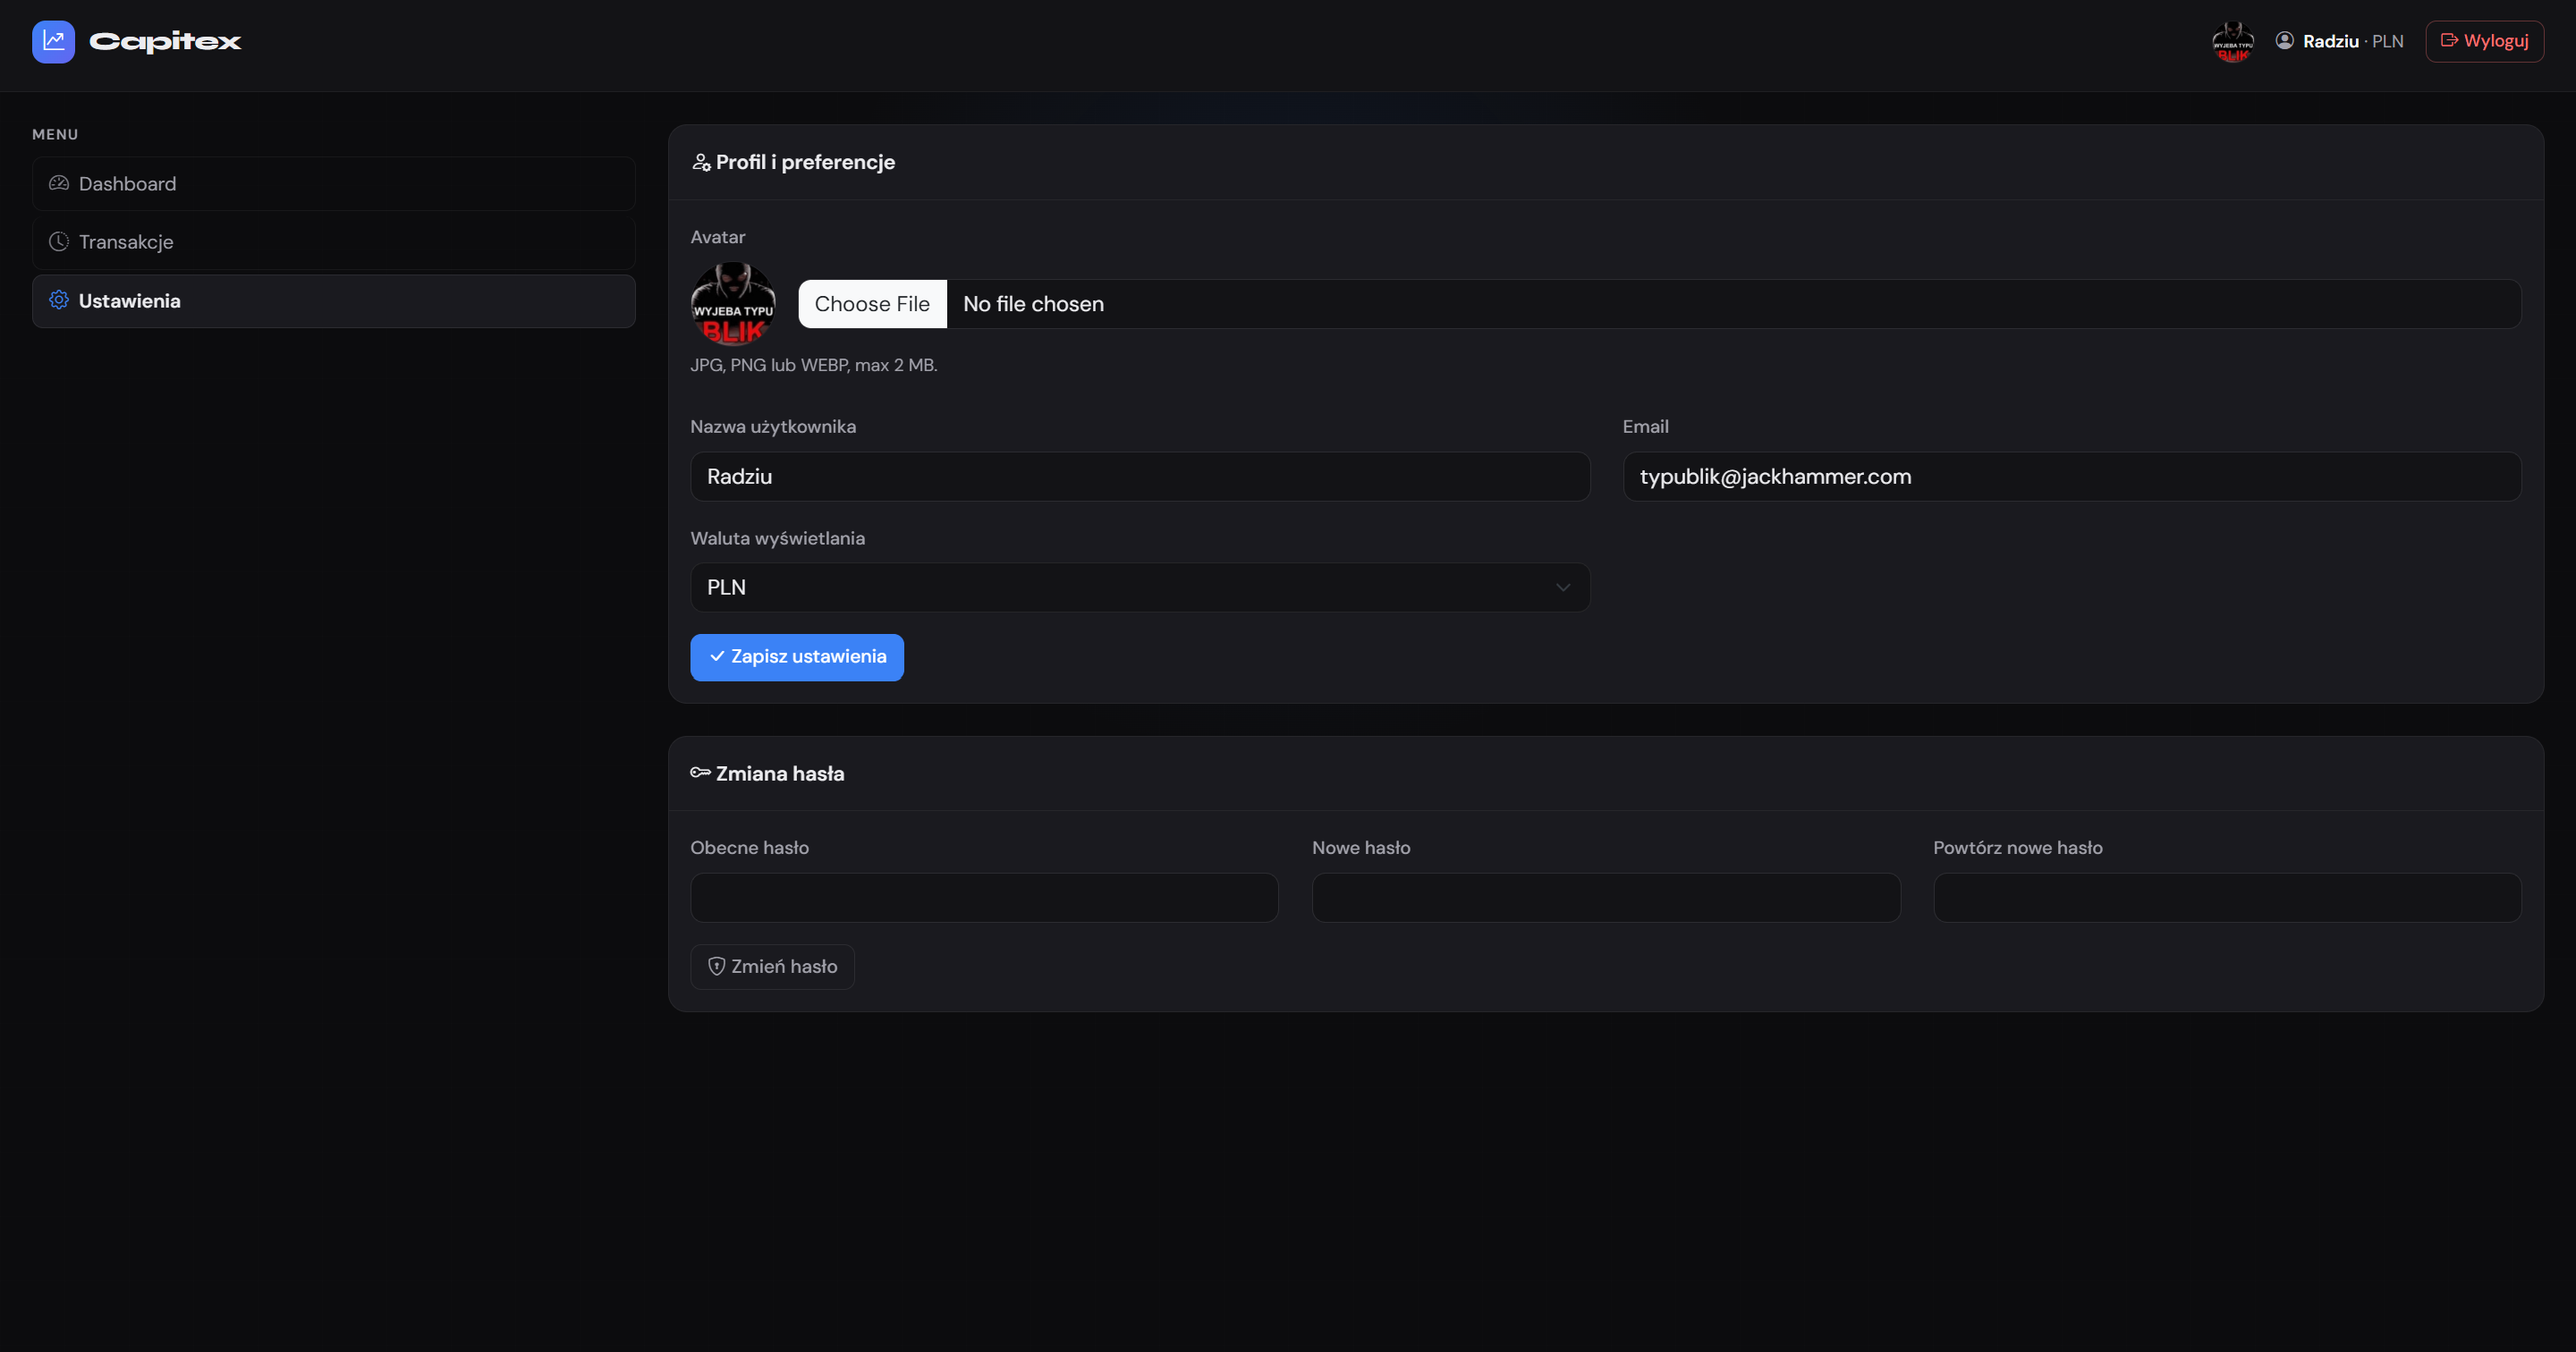
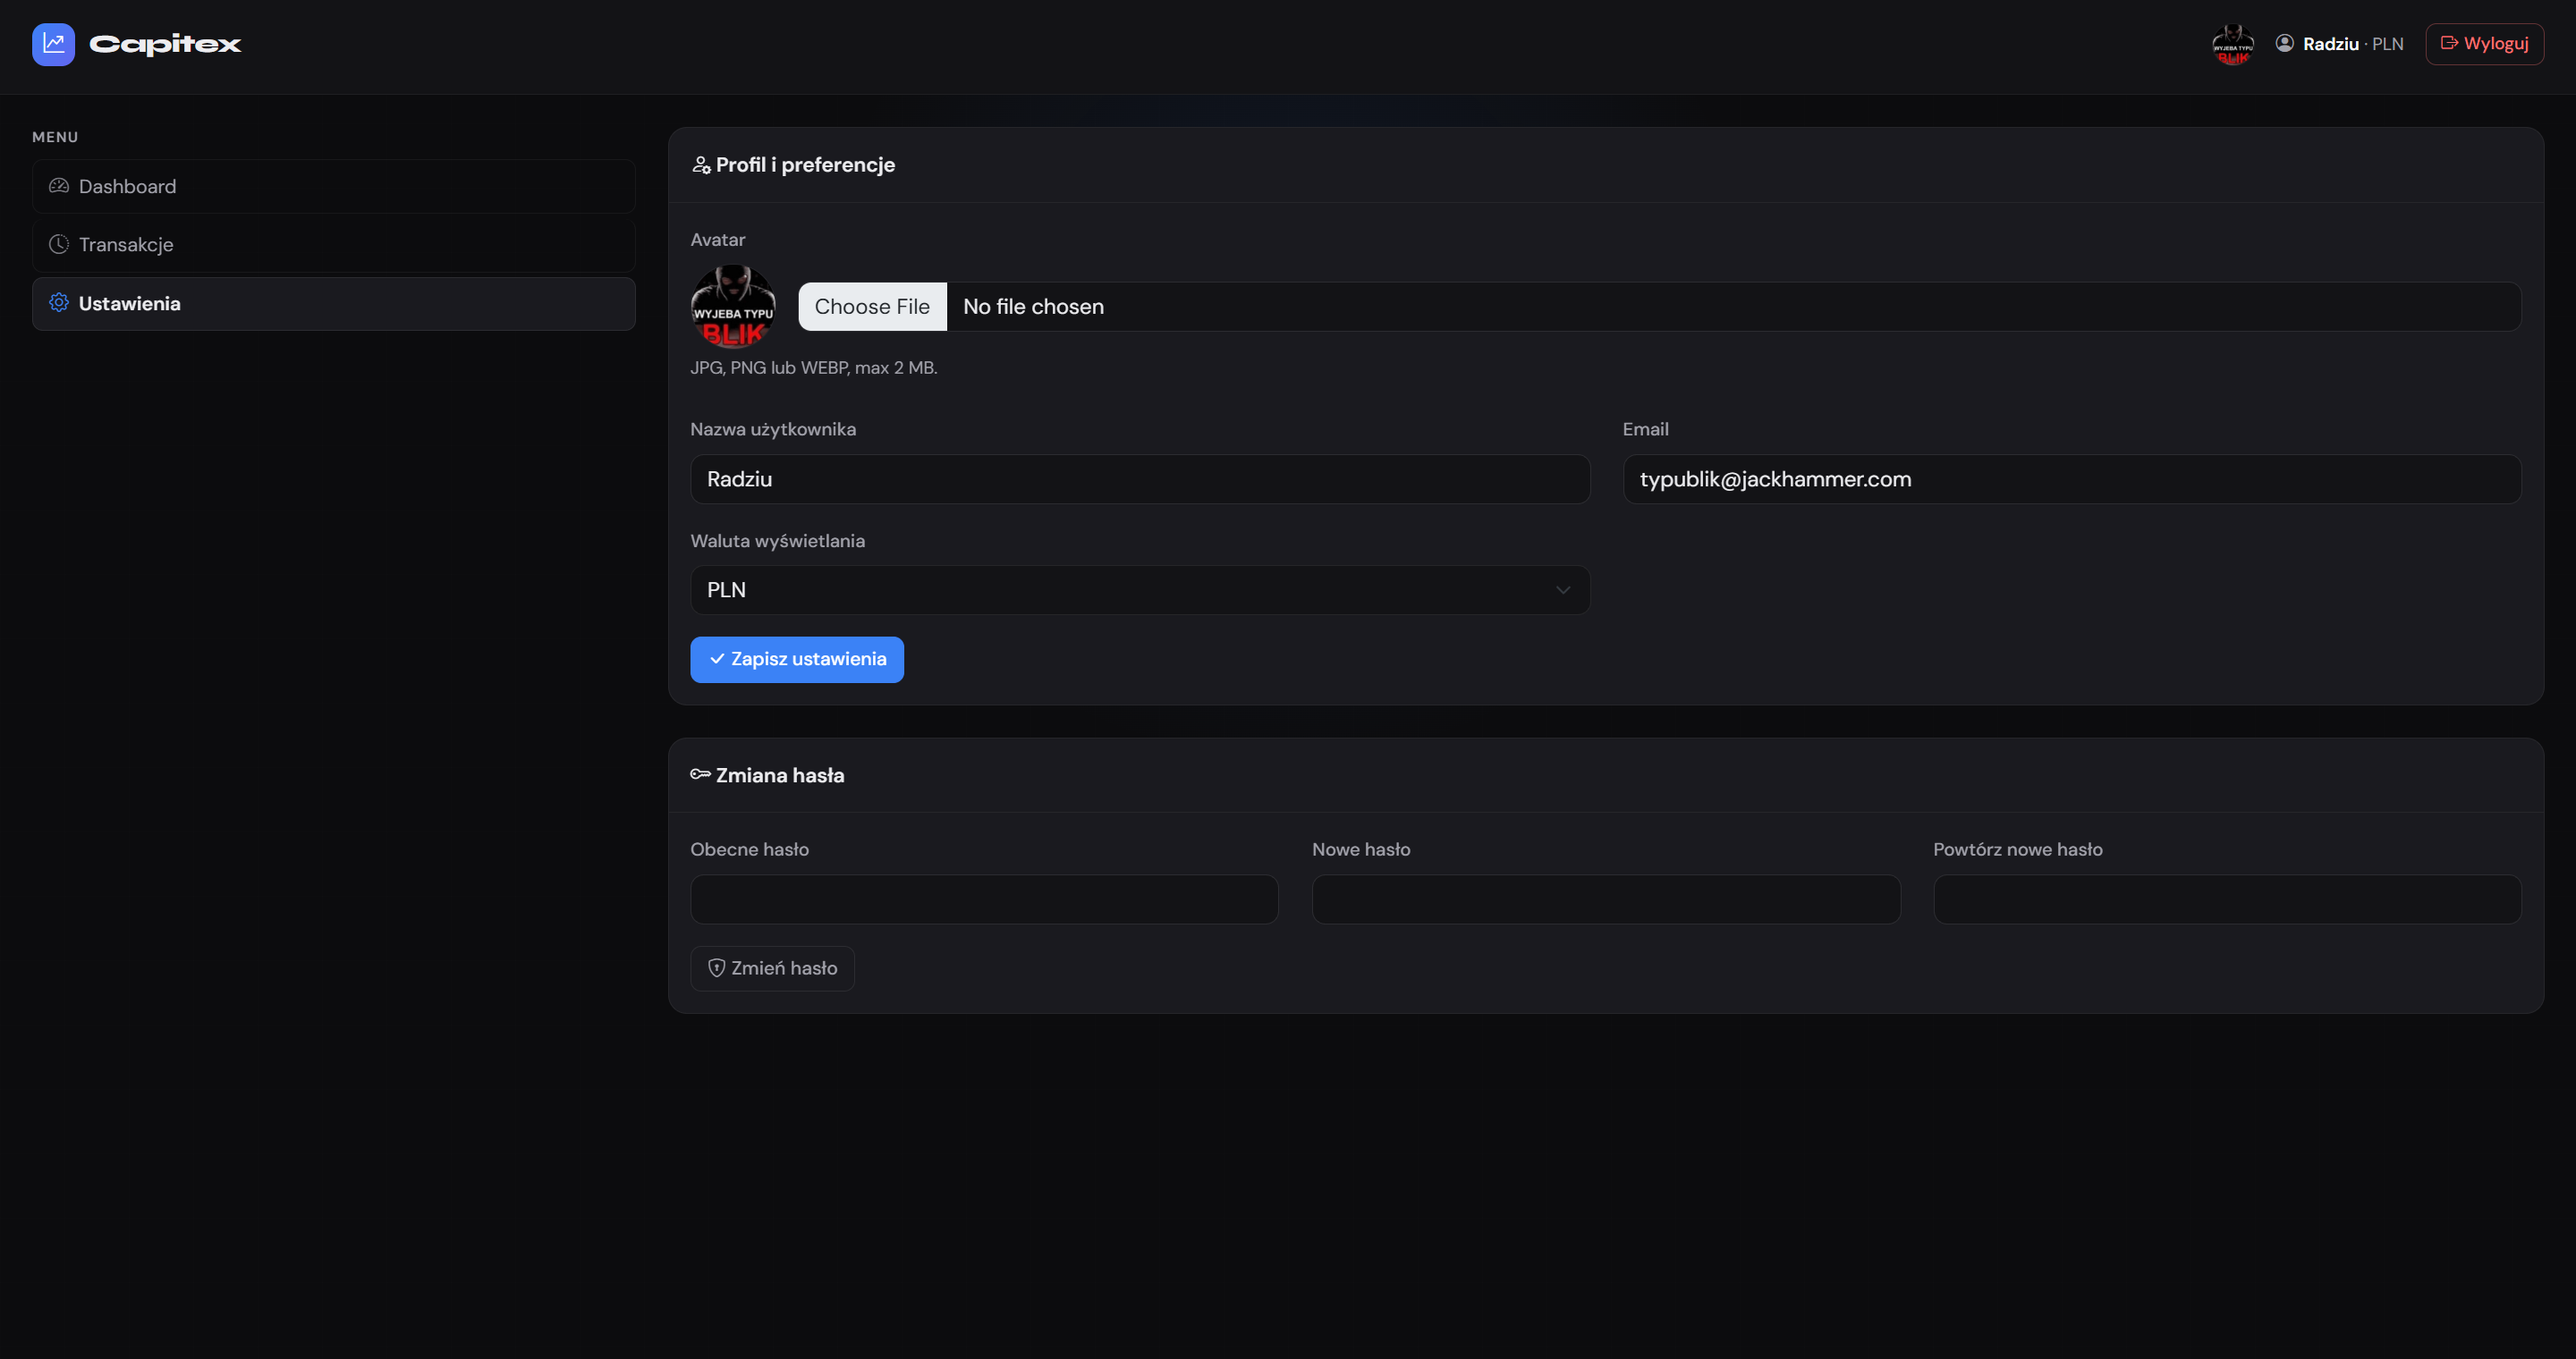
fix docs

diff --git a/README.md b/README.md
@@ -47,7 +47,7 @@ Kod aplikacji znajduje się w katalogu `capitex/` (w repozytorium `aplikacje-int
 #### Dodatkowe narzędzia 
 - Przeglądarka (Chrome, Firefox, Edge)
 - Połączenie z internetem (pobieranie cen z API)
-- Edytor kodu (np. VS Code / Cursor) – opcjonalnie w dokumentacji
+- Edytor kodu 
 
 
 
@@ -358,7 +358,7 @@ Po zalogowaniu tym kontem użytkownik ma rolę **admin** (`role_id = 1`) i widzi
 
 #### Dashboard administratora (portfel)
 
-Po logowaniu administrator trafia na dashboard inwestycyjny – tak jak użytkownik. Może tworzyć własne portfele i transakcje; obsługa opisana będzie w sekcji **Panel użytkownika**.
+Po logowaniu administrator trafia na dashboard inwestycyjny – tak jak użytkownik. Może tworzyć własne portfele i transakcje; obsługa opisana w sekcji **Panel użytkownika** poniżej.
 
 ![Dashboard administratora z własnym portfelem](./assets/admin/admin-dashboard.png)
 
@@ -471,7 +471,224 @@ Administrator **nie może**:
 
 ### Panel użytkownika
 
-> *Sekcja w przygotowaniu – opis dashboardu, portfeli, transakcji, ustawień i filtrów.*
+Zwykły użytkownik (`role_id = 2`) po rejestracji lub logowaniu zarządza własnymi portfelami, transakcjami i ustawieniami profilu. Nie widzi **Panelu admina** w menu.
+
+#### Dashboard główny
+
+Po zalogowaniu użytkownik trafia na dashboard inwestycyjny. Ekran składa się z:
+
+- **górnego paska** – nazwa użytkownika, avatar, przycisk **Wyloguj**,
+- **menu bocznego** – Dashboard, Transakcje, Ustawienia oraz lista **Moje Portfele**,
+- **obszaru głównego** – kafelki (wartość całkowita, niezrealizowany zysk, zwrot %), wykres liniowy, wykres kołowy (alokacja) oraz tabela **Moje Aktywa** (suma ze wszystkich portfeli).
+
+![Dashboard użytkownika](./assets/user/user-dashboard.png)
+
+*Rys. 13 – Dashboard: statystyki portfela, wykresy, tabela aktywów i lista portfeli w menu bocznym.*
+
+#### Historia transakcji
+
+Pozycja **Transakcje** w menu otwiera listę wszystkich transakcji użytkownika. Powrót do dashboardu: **Dashboard** w menu bocznym.
+
+Tabela pokazuje m.in. datę, portfel, aktywo, ilość, cenę jednostkową i wartość transakcji. Filtry stosuje się przyciskiem **Filtruj** (formularz GET – Enter w polu filtra również wysyła formularz).
+
+![Historia transakcji](./assets/user/transactions-main.png)
+
+*Rys. 14 – Widok transakcji z formularzem filtrowania nad tabelą.*
+
+##### Filtrowanie i sortowanie transakcji
+
+| Filtr / sortowanie | Opis |
+|--------------------|------|
+| **Nazwa aktywa** | Fragment nazwy instrumentu (np. „NVIDIA”) |
+| **Ticker** | Symbol giełdowy (np. „NVDA”, „BTC”) |
+| **Portfel** | Nazwa portfela (np. „XTB”) |
+| **Sortowanie** | Data ↓/↑, ticker A–Z, nazwa aktywa A–Z, portfel A–Z |
+
+![Filtr po nazwie aktywa](./assets/user/filter-name.png)
+
+*Rys. 15 – Filtrowanie transakcji po nazwie aktywa.*
+
+![Filtr po tickerze](./assets/user/filter-ticker.png)
+
+*Rys. 16 – Filtrowanie po symbolu tickera (akcje, ETF, krypto).*
+
+![Filtr po portfelu](./assets/user/filter-wallet.png)
+
+*Rys. 17 – Filtrowanie transakcji przypisanych do wybranego portfela.*
+
+Opcje sortowania (pole rozwijane **Sortowanie**):
+
+![Sortowanie – data najnowsze](./assets/user/sort-new.png)
+
+*Rys. 18a – Sortowanie: data (najnowsze).*
+
+![Sortowanie – data najstarsze](./assets/user/sort-old.png)
+
+*Rys. 18b – Sortowanie: data (najstarsze).*
+
+![Sortowanie – ticker A–Z](./assets/user/ticker-az.png)
+
+*Rys. 18c – Sortowanie alfabetyczne po tickerze.*
+
+![Sortowanie – nazwa aktywa A–Z](./assets/user/name-az.png)
+
+*Rys. 18d – Sortowanie alfabetyczne po nazwie aktywa.*
+
+![Sortowanie – portfel A–Z](./assets/user/wallet-az.png)
+
+*Rys. 18e – Sortowanie alfabetyczne po nazwie portfela.*
+
+##### Skrót z dashboardu
+
+Kliknięcie wiersza aktywa w tabeli **Moje Aktywa** na dashboardzie przenosi do transakcji z filtrem po tickerze tego instrumentu.
+
+![Dashboard – tabela aktywów (kliknięcie wiersza)](./assets/user/user-dashboard.png)
+
+*Rys. 19a – Kliknięcie w aktywo na dashboardzie (wiersz w **Moje Aktywa**).*
+
+![Transakcje po kliknięciu aktywa](./assets/user/after-filter-click-dashboard.png)
+
+*Rys. 19b – Lista transakcji przefiltrowana do wybranego tickera.*
+
+##### Usuwanie transakcji
+
+Czerwona ikona kosza w kolumnie akcji usuwa transakcję po potwierdzeniu w oknie dialogowym.
+
+![Usuwanie transakcji](./assets/user/delete-trasnaction.png)
+
+*Rys. 20 – Usunięcie pojedynczej transakcji z historii.*
+
+#### Ustawienia profilu
+
+Pozycja **Ustawienia** w menu prowadzi do edycji profilu i hasła.
+
+W sekcji **Profil i preferencje** użytkownik może:
+- wgrać **avatar** (JPG, PNG, WEBP, max 2 MB),
+- zmienić **nazwę** i **adres e-mail**,
+- wybrać **walutę wyświetlania** (PLN / USD / EUR) – wartości na dashboardzie przeliczane są przez kursy NBP,
+- zapisać zmiany przyciskiem **Zapisz ustawienia**.
+
+W sekcji **Zmiana hasła** (osobny formularz):
+- obecne hasło,
+- nowe hasło i potwierdzenie,
+- przycisk **Zmień hasło**.
+
+![Ustawienia – waluta wyświetlania](./assets/user/currency-change-setting.png)
+
+*Rys. 21 – Fragment ustawień: waluta wyświetlania i zapis profilu.*
+
+#### Dodawanie transakcji (broker / giełda)
+
+Przycisk **+ Dodaj transakcję** na dashboardzie (głównym lub portfela) otwiera modal.
+
+![Modal dodawania transakcji](./assets/user/add-transaction.png)
+
+*Rys. 22 – Formularz transakcji dla portfela typu Broker lub Exchange.*
+
+Pola formularza (akcje, ETF, krypto):
+- **Portfel docelowy** – wybór z listy portfeli użytkownika,
+- **Wyszukaj aktywo** – autocomplete z API (Yahoo Finance dla brokerów, Binance dla krypto),
+- **Ilość** i **cena za jednostkę** (cena z API na wybraną datę lub wpisana ręcznie),
+- **Data transakcji**,
+- podgląd **wartości całkowitej** i kursu do PLN (NBP).
+
+![Wybór portfela w modalu](./assets/user/pole-rozwijane-dodaj-aktywo.png)
+
+*Rys. 23 – Pole rozwijane **Portfel docelowy** w modalu transakcji.*
+
+#### Dodawanie transakcji (portfel alternatywny)
+
+Dla portfela kategorii **Alternatywne** modal przełącza się na formularz ręczny (bez wyszukiwarki giełdowej):
+
+![Transakcja alternatywna](./assets/user/alternative-asset-add.png)
+
+*Rys. 24 – Formularz dla gotówki, auta itd.: opis, kwota, opcjonalna ilość, waluta (PLN/USD/EUR), data.*
+
+- **Opis aktywa** – np. „gotówka na koncie”, „Samochód Opel Astra”,
+- **Kwota** – wartość całkowita transakcji,
+- **Ilość** (opcjonalnie) – puste dla gotówki; np. `1` dla pojedynczego przedmiotu,
+- **Waluta** – PLN, USD lub EUR,
+- **Data transakcji**.
+
+Aktywa alternatywne wliczają się do **wartości portfela** i **wykresu kołowego** (alokacja), ale **nie** do wykresu liniowego (brak notowań z API).
+
+#### Zarządzanie portfelami
+
+##### Dodawanie portfela
+
+Przycisk **+** przy nagłówku **Moje Portfele** otwiera modal tworzenia portfela.
+
+![Przycisk dodawania portfela](./assets/user/add-portfel.png)
+
+*Rys. 25a – Przycisk **+** przy sekcji portfeli.*
+
+![Formularz nowego portfela](./assets/user/add-portfel-context-menu.png)
+
+*Rys. 25b – Nazwa portfela i kategoria: **Broker** (akcje, ETF), **Giełda** (krypto), **Alternatywne** (gotówka, dobra ręczne).*
+
+Zatwierdzenie: **Zapisz portfel**.
+
+##### Usuwanie portfela
+
+Ikona kosza obok nazwy portfela usuwa portfel wraz z jego transakcjami (po potwierdzeniu).
+
+![Usuwanie portfela](./assets/user/portfel-delete.png)
+
+*Rys. 26 – Potwierdzenie usunięcia portfela z listy bocznej.*
+
+##### Dashboard pojedynczego portfela
+
+Kliknięcie **nazwy portfela** w menu bocznym otwiera widok z danymi tylko tego portfela (te same wykresy i tabela, bez pozycji z innych portfeli).
+
+![Dashboard wybranego portfela](./assets/user/sub-dashboard.png)
+
+*Rys. 27 – Pod-dashboard jednego portfela (np. XTB).*
+
+#### Wykresy
+
+**Wykres kołowy (Alokacja)** – udział poszczególnych aktywów w portfelu (w tym pozycje ręczne / gotówka).
+
+**Wykres liniowy (Rozwój portfela)** – zmiana wartości w czasie na podstawie transakcji rynkowych (akcje, ETF, krypto). Zakresy: **1D**, **7D**, **1M**, **1Y**, **ALL**. Aktywa alternatywne nie są uwzględniane na tym wykresie.
+
+![Wykres liniowy – zakres 1Y](./assets/user/line-graph-1y.png)
+
+*Rys. 28 – Wykres liniowy z wybranym filtrem czasu **1Y**.*
+
+#### Wylogowanie
+
+Przycisk **Wyloguj** w prawym górnym rogu kończy sesję i przekierowuje na stronę tytułową.
+
+![Przycisk wylogowania](./assets/user/logout-button.png)
+
+*Rys. 29a – **Wyloguj** obok nazwy użytkownika i avatara.*
+
+![Strona tytułowa po wylogowaniu](./assets/user/main-title-site-afterlogou.png)
+
+*Rys. 29b – Powrót na stronę startową po wylogowaniu.*
+
+#### Podsumowanie – funkcjonalności użytkownika
+
+Użytkownik w aplikacji Capitex może:
+
+- zarejestrować konto i zalogować się,
+- przeglądać **dashboard** ze statystykami portfela (wartość, zysk/strata, zwrot %),
+- tworzyć i usuwać **portfele** (Broker, Giełda, Alternatywne),
+- otwierać **widok jednego portfela** (kliknięcie nazwy w menu),
+- dodawać **transakcje kupna** – z API (akcje, ETF, krypto) lub ręcznie (aktywa alternatywne),
+- przeglądać **historię transakcji** z filtrowaniem (nazwa, ticker, portfel) i sortowaniem,
+- przejść z dashboardu do transakcji danego aktywa (klik w wiersz tabeli),
+- **usuwać** transakcje,
+- zmieniać **ustawienia profilu** (avatar, nazwa, e-mail, waluta wyświetlania),
+- zmieniać **własne hasło**,
+- korzystać z **wykresów** (alokacja + rozwój portfela dla aktywów rynkowych),
+- **wylogować się**.
+
+Użytkownik **nie może** (w v1.0):
+
+- edytować istniejących transakcji ani portfeli (tylko dodawanie i usuwanie),
+- rejestrować transakcji sprzedaży (*sell*),
+- zarządzać kontami innych użytkowników,
+- wejść w panel administratora.
 
 ## Plany rozbudowy
 
